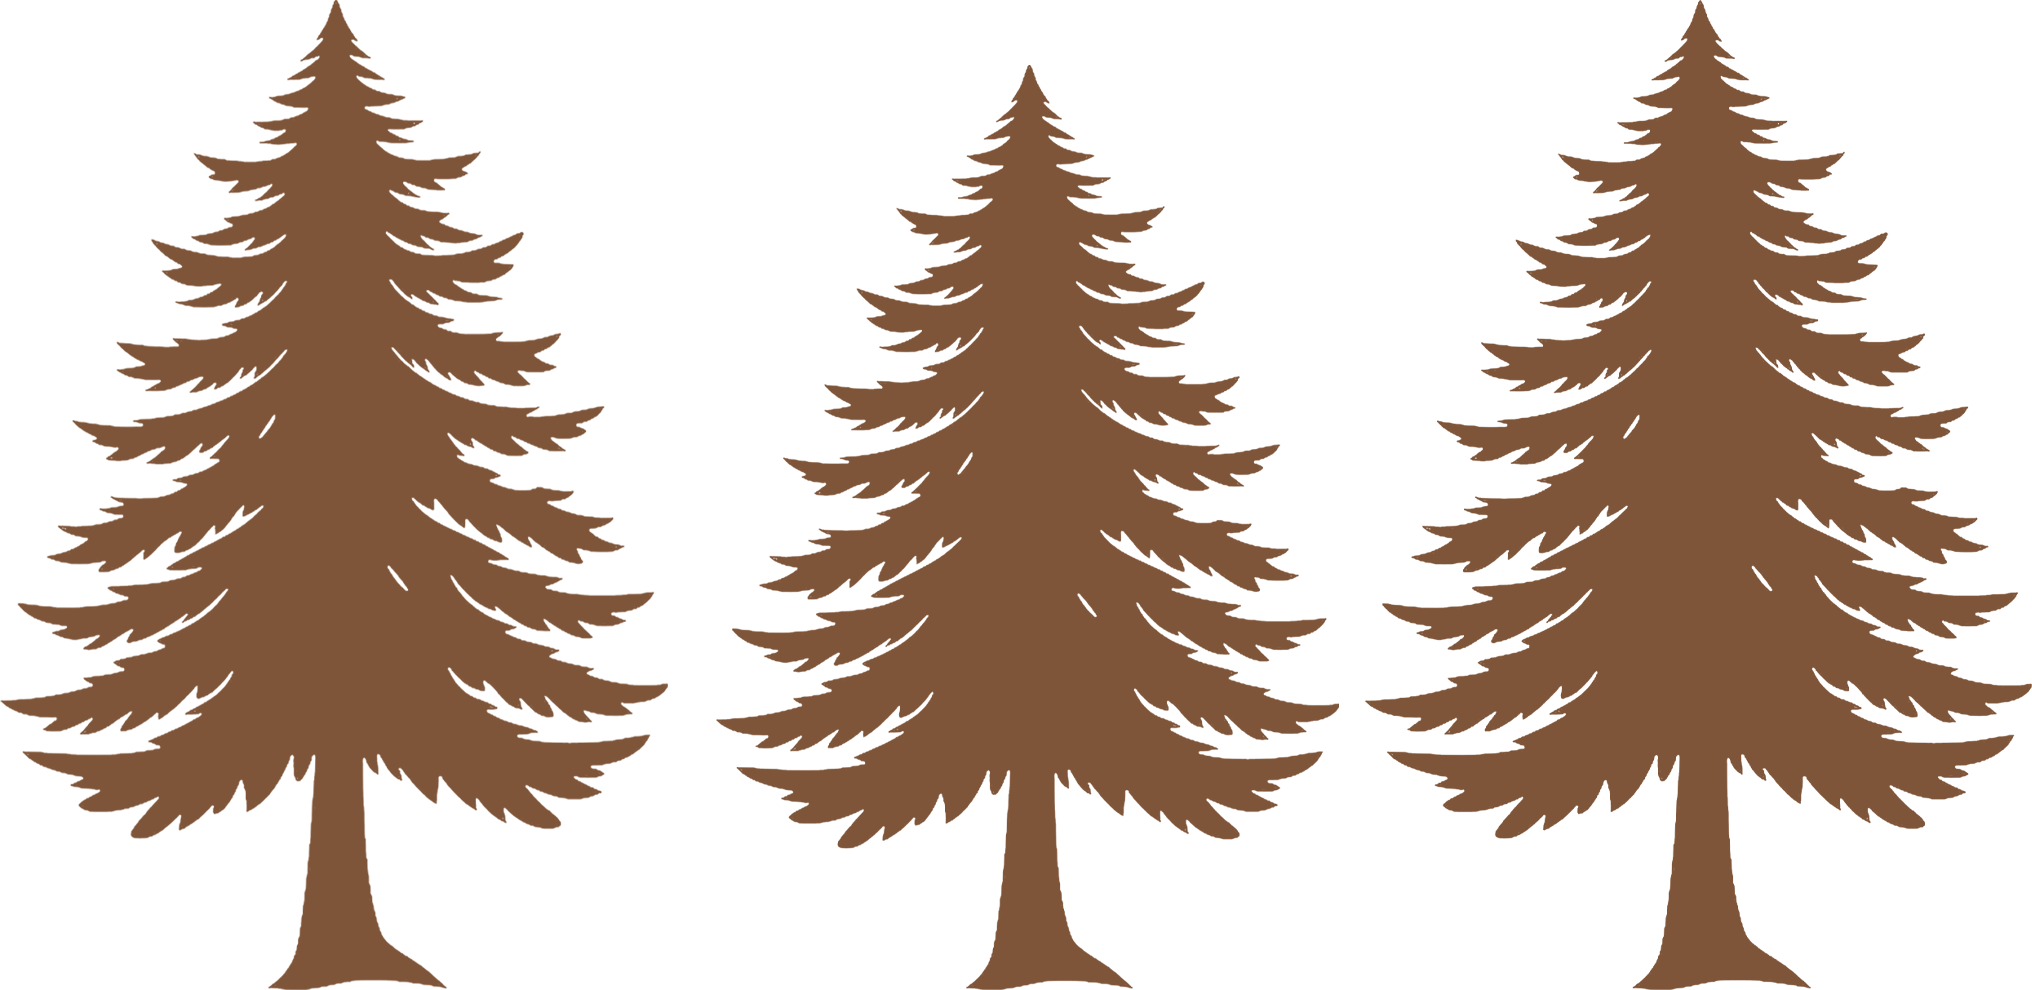
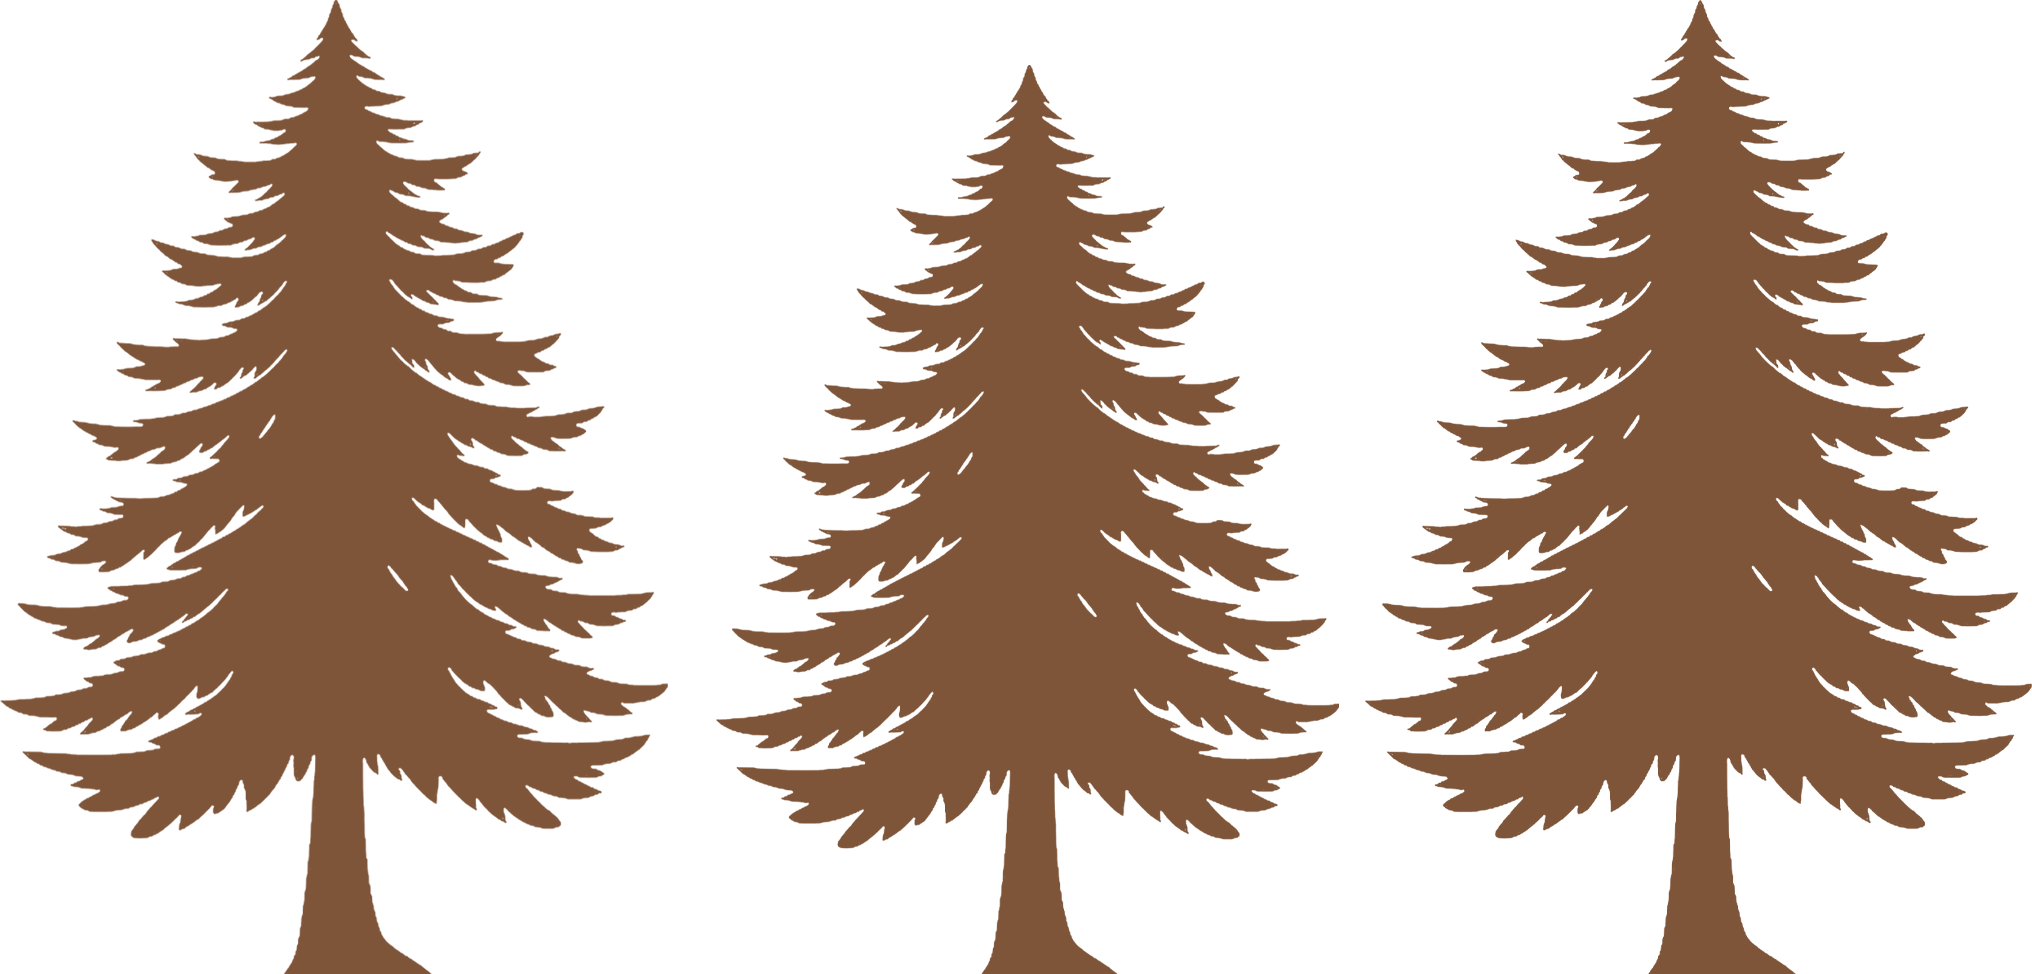
fixed the warnings in the index page

diff --git a/index.html b/index.html
@@ -34,62 +34,67 @@
     <div class="home-banner">
     </div>
 
-    <div class="LeftFootprints">
-        <img src="LeftFootprints.png" alt="Left Footprint" align="left" height="2000">
-    </div>
-    <div class="RightFootprints">
-        <img src="RightFootprints.png" alt="Right Footprint" align="right" height="2000">
-    </div>
-
-    <main class="home-content">
-        <div class="main-row">
-            <div class="card">
-                <div class="suggestions">
-                    <h1>Viewer Suggestions</h1>
-                </div>
-                <div class="card1">
-                    <a href="ViewerSuggestions.html" class="logo">
-                        <img src="ViewerIcon.png" alt="Icon" width="400" height="400">
-                    </a>
-                    <h2>Got any suggestions? Post them here! Here you can vote on polls and suggest ideas for future
-                        episodes
-                        such as Cryptid sightings, battle ideas and any Cryptid topics you can think of!</h2>
-                </div>
-            </div>
-
-            <div class="card">
-                <div class="battles">
-                    <h1>Past Battles</h1>
-                </div>
-                <div class="card2">
-                    <a href="PastBattles.html" class="logo">
-                        <img src="BattleIcon.png" alt="Icon" width="400" height="400">
-                    </a>
-                    <h2>Want a quick catch-up on past battles? Look here to see the results of previous episodes! From
-                        ranking
-                        to results, you can see both the winners, losers and why they came out on top!</h2>
-                </div>
-            </div>
-
-            <div class="card">
-                <div class="information">
-                    <h1>Cryptid Information</h1>
-                </div>
-                <div class="card3">
-                    <a href="CryptidInformation.html" class="logo">
-                        <img src="InfoIcon.png" alt="Icon" width="400" height="400">
-                    </a>
-                    <h2>Want to learn more about different Cryptids? Here you can learn about their name, locations,
-                        history
-                        and
-                        stories about these mysterious beasts.</h2>
-                </div>
-            </div>
+    <div class="index-main-content">
+        <div class="LeftFootprints">
+            <img src="LeftFootprints.png" alt="Left Footprint" height="2000">
         </div>
-    </main>
+
+        <main class="home-content">
+            <div class="main-row">
+                <div class="card">
+                    <div class="suggestions">
+                        <h1>Viewer Suggestions</h1>
+                    </div>
+                    <div class="card1">
+                        <a href="ViewerSuggestions.html" class="logo">
+                            <img src="ViewerIcon.png" alt="Icon" width="400" height="400">
+                        </a>
+                        <h2>Got any suggestions? Post them here! Here you can vote on polls and suggest ideas for future
+                            episodes
+                            such as Cryptid sightings, battle ideas and any Cryptid topics you can think of!</h2>
+                    </div>
+                </div>
+
+                <div class="card">
+                    <div class="battles">
+                        <h1>Past Battles</h1>
+                    </div>
+                    <div class="card2">
+                        <a href="PastBattles.html" class="logo">
+                            <img src="BattleIcon.png" alt="Icon" width="400" height="400">
+                        </a>
+                        <h2>Want a quick catch-up on past battles? Look here to see the results of previous episodes!
+                            From
+                            ranking
+                            to results, you can see both the winners, losers and why they came out on top!</h2>
+                    </div>
+                </div>
+
+                <div class="card">
+                    <div class="information">
+                        <h1>Cryptid Information</h1>
+                    </div>
+                    <div class="card3">
+                        <a href="CryptidInformation.html" class="logo">
+                            <img src="InfoIcon.png" alt="Icon" width="400" height="400">
+                        </a>
+                        <h2>Want to learn more about different Cryptids? Here you can learn about their name, locations,
+                            history
+                            and
+                            stories about these mysterious beasts.</h2>
+                    </div>
+                </div>
+            </div>
+        </main>
+
+        <div class="RightFootprints">
+            <img src="RightFootprints.png" alt="Right Footprint" height="2000">
+        </div>
+    </div>
+
 
     <div class="trees">
-        <img src="TreeIcons.png" alt="Tree Icons" width="500" align="right">
+        <img src="TreeIcons.png" alt="Tree Icons" width="500">
     </div>
 
 

diff --git a/styles.css b/styles.css
@@ -73,6 +73,12 @@ footer {
 
 }
 
+.index-main-content {
+    display: flex;
+    justify-content: space-between;
+
+}
+
 .card {
     padding: 1em;
     margin: 1em;
@@ -159,7 +165,6 @@ footer {
 .main-footer {
     color: #7F5539;
     background-color: #7F5539;
-    margin-top: 20em;
     padding: 1em;
 }
 
@@ -190,7 +195,9 @@ footer {
 }
 
 .trees {
-    margin-top: 5em;
+    display: flex;
+    justify-content: right;
+
 }
 
 @media (max-width: 768px) {
